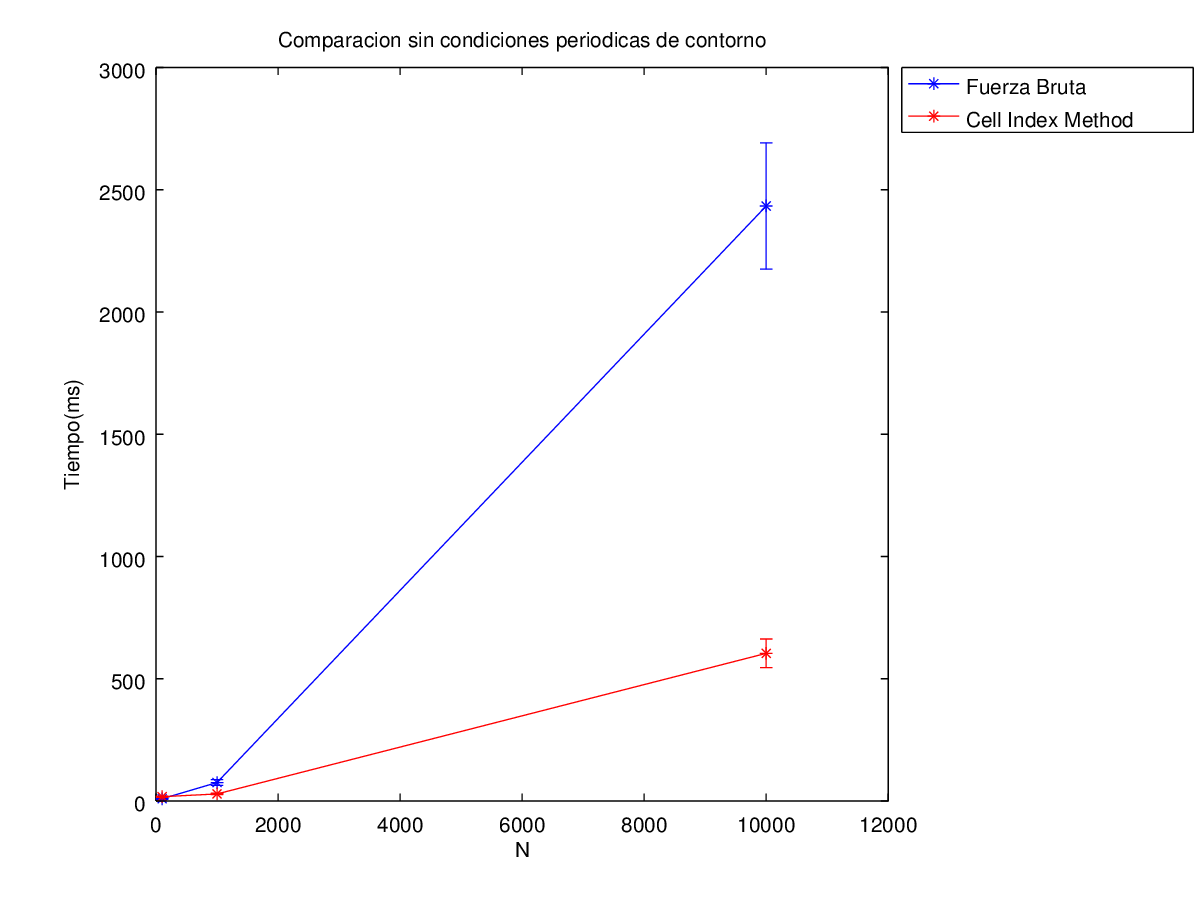
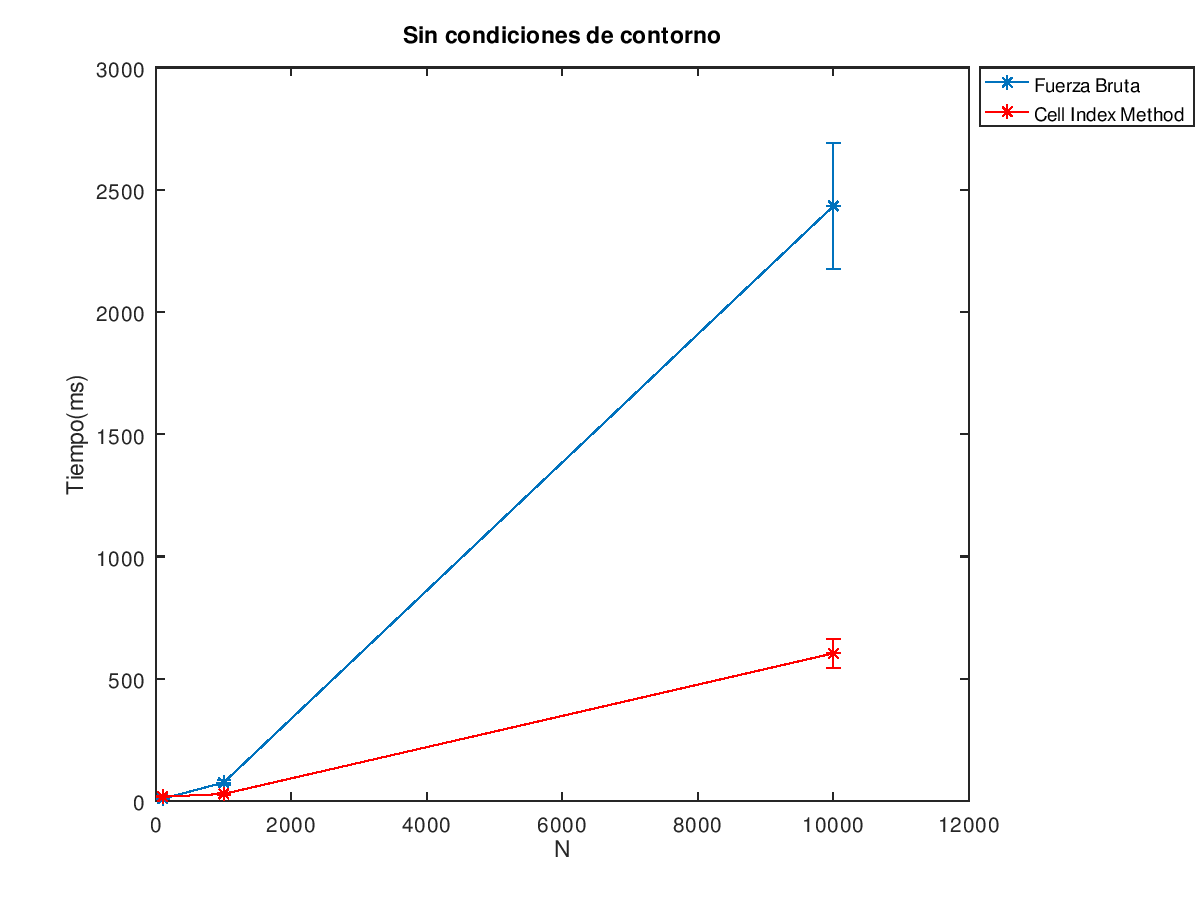
graphic fix

diff --git a/animation/grafico.m b/animation/grafico.m
@@ -21,27 +21,34 @@ meanCellPer = [mean(t100CellPer),mean(t1000CellPer),mean(t10000CellPer)];
 meanBruteBox = [mean(t100BruteBox),mean(t1000BruteBox),mean(t10000BruteBox)];
 meanCellBox = [mean(t100CellBox),mean(t1000CellBox),mean(t10000CellBox)];
 
+
 stdBrutePer = [std(t100BrutePer),std(t1000BrutePer),std(t10000BrutePer)];
 stdCellPer = [std(t100CellPer),std(t1000CellPer),std(t10000CellPer)];
 stdBruteBox = [std(t100BruteBox),std(t1000BruteBox),std(t10000BruteBox)];
 stdCellBox = [std(t100CellBox),std(t1000CellBox),std(t10000CellBox)];
 
+#stdBrutePer = [std(log10(t100BrutePer)),std(log10(t1000BrutePer)),std(log10(t10000BrutePer))];
+#stdCellPer = [std(log10(t100CellPer)),std(log10(t1000CellPer)),std(log10(t10000CellPer))];
+#stdBruteBox = [std(log10(t100BruteBox)),std(log10(t1000BruteBox)),std(log10(t10000BruteBox))];
+#stdCellBox = [std(log10(t100CellBox)),std(log10(t1000CellBox)),std(log10(t10000CellBox))];
+
 clf;
-errorbar([100,1000,10000],log10(meanBruteBox),log10(stdBruteBox),"-*");
+errorbar([100,1000,10000],meanBruteBox,stdBruteBox,"-*");
 hold on;
-errorbar([100,1000,10000],log10(meanCellBox),log10(stdCellBox),"~r-*");
+errorbar([100,1000,10000],meanCellBox,stdCellBox,"~r-*");
 xlabel('N');
 ylabel('Tiempo(ms)');
-title('Comparacion sin condiciones periodicas de contorno');
+title('Sin condiciones de contorno');
 legend({"Fuerza Bruta","Cell Index Method"}, "location", "northeastoutside");
 
+
 #clf;
-#errorbar([100,1000,10000],log10(meanBrutePer),log10(stdBrutePer),"-*");
+#errorbar([100,1000,10000],log10(meanBrutePer),stdBrutePer,"-*");
 #hold on;
-#errorbar([100,1000,10000],log10(meanCellPer),log10(stdCellPer),"~r-*");
+#errorbar([100,1000,10000],log10(meanCellPer),stdCellPer,"~r-*");
 #xlabel('N');
-#ylabel('Tiempo(ms)');
-#title('Comparacion con condiciones periodicas de contorno');
+#ylabel('log10(Tiempo)(ms)');
+#title('Con condiciones de contorno');
 #legend({"Fuerza Bruta","Cell Index Method"}, "location", "northeastoutside");
 
 
